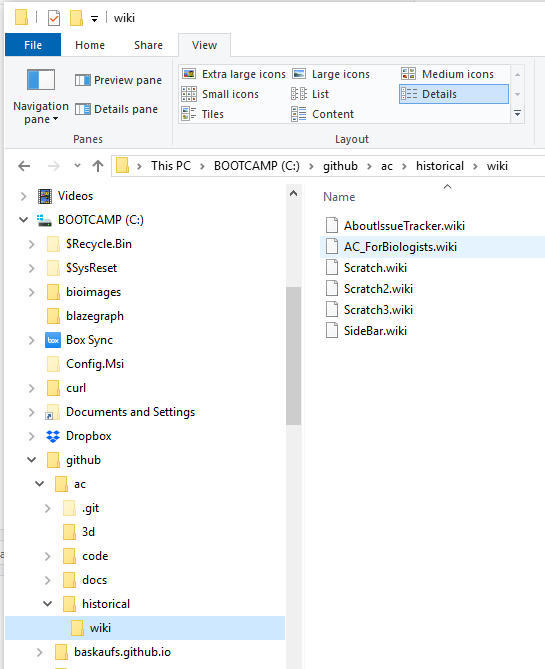
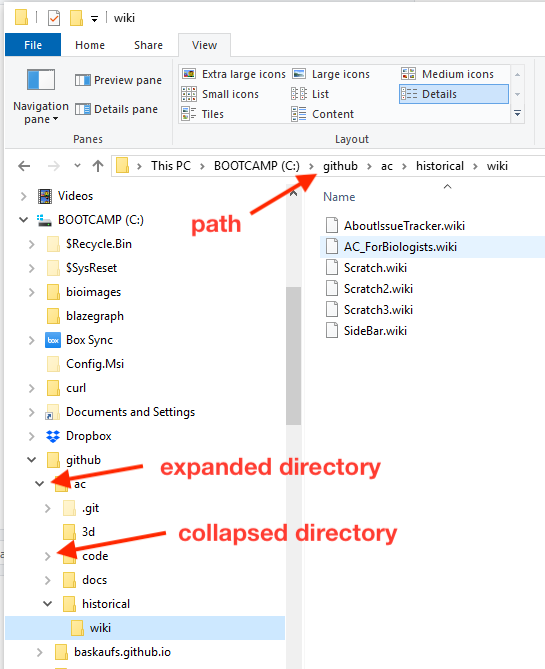
incremental work on Windows directories lesson

diff --git a/computer/directories-windows.md b/computer/directories-windows.md
@@ -77,51 +77,41 @@ c:\users\user1\file6
 
 When you open a File Explorer window, its exact appearance is going to depend on how you've used it in the past, since it usually remembers how you had it set up the last time you used it to look at a particular directory.  There are certain modifications that you can do to make File Explorer easier to use based on how you like to organize things.  
 
-![explorer with navigation and ribbon](../images-2-pc/windows-explorer.jpg)
+<img src="../images-2-pc/file-explorer.jpg" style="border:1px solid black">
 
 ## Navigation pane
 
 There are two parts of the File Explorer window that you can choose to display or not.  The *ribbon* is at the top of the window.  The Home and View tabs are the most useful ones.  The Home tab allows you to perform tasks such as creating new folders and deleting files.  The View tab has many useful features and we will focus on it.
 
-The first item in the View tab is a dropdown that controls whether 
+<img src="../images-2-pc/nav-pane-options.jpg" style="border:1px solid black">
 
-Its most useful features are the back button, which allows you to go back to previous directory that you viewed, and the set of four buttons that contol how the files are displayed (as icons, list, columns, or gallery).  The *sidebar* allows you to quickly jump to folders that you frequently use.  
+The first item in the View tab is a dropdown that controls whether the second part (the *navigation pane*) is visible or not, and how it works.  You should check the `Navigation pane` checkbox if it isn't already checked.  Also check the `Expand to open folder` checkbox.  
 
-You can control whether the toolbar and sidebar are visible or not by going to the Finder View menu and toggling `show toolbar`/`hide toolbar` option.  Unless you are really hard up for screen space, I recommend leaving them visible.  (You can also show or hide just the sidebar, but toggling the toolbar shows or hides both).  
+The second set of items (`Preview pane` and `Details pane`) open and close panes at the right of the window that provides a preview of the contents or gives details of the selected file, respectively.  
 
-Once the sidebar is visible, there are two ways you can control what "favorite" folders are visible.  To control which of the "special" folders are visible, click on a Finder window (or the Finder icon in the dock), then from the Finder menu, select `Preferences".  Click on the Sidebar tab.
+The third set of items allows you to select how you want to view the files.  The two most useful view styles are `Details` and the various sizes of icons.  
 
-<img src="../images-2-mac/sidebar-preferences.png" style="border:1px solid black">
+<img src="../images-2-pc/large-icons.jpg" style="border:1px solid black">
 
-Uncheck the boxes of any items you don't want to see, and check any that you think you might use frequently.  For these exercises, make sure that your home folder is checked (the icon that looks like a little house) as well as the Location that has your computer name (in this case, `erebus's MacBook Pro`).  When you are done, close the window by clicking on the red dot.  **Note: you can always go to any of the special folders by dropping down the Finder `Go` menu, then selecting the folder you want.**
+The *Large icons* option is mostly useful for directories that contain images, since it presents reasonably sized thumbnails of images in the folder.  It's probably the easiest way to find a particular image from a large collection.  
 
-<img src="../images-2-mac/add-favorite.png" style="border:1px solid black">
+<img src="../images-2-pc/details.jpg" style="border:1px solid black">
 
-You can also add favorite "regular" folders to the sidebar.  Click and drag the folder over to the sidebar until a line shows up in the position where you want the folder to be, then drop it.  **Note: be careful that you see the line indicating where the folder will be inserted between other folders on the list.  If you hold the folder *over* a folder in the list, you'll actually move the folder you were dragging *into* the folder on the list.**  If you add a folder to the favorites list, it is also still in its original location in the directory tree.
+The *Details* option is probably the most useful of the remaining views. This view displays columns of metadata about the files, including the time when it was last modified and the file size.  You can sort by any of the columns, which is particularly useful for finding the most recently modified, or the oldest files.  
 
-To remove a "regular" folder from the sidebar, just click and drag it somewhere out of the sidebar so that an X shows up next to its icon.  Drop it and it will be removed.  (If you drop it from the sidebar into a directory that is being displayed, it won't be moved there.) 
+There is also a set of buttons in the lower right of the window that allows you to switch between displying item info and just displaying the icons.  It's best to just leave it selected to display item info and control the view style using the view ribbon options.
 
-## Finder display modes
+<img src="../images-2-pc/nav-pane.jpg" style="border:1px solid black">
 
-If you don't have very many files on your computer, it doesn't matter much what display mode you chose to use.  
+The navigation pane is extremely useful for navigating around in the directory tree.  Near the top of the navigation pane is `This PC`, which is sort of the imaginary root of every file storage thing in the directory tree.  Located under it hierarchically are the "imaginary" places: Desktop, Documents, Downloads, Pictures, etc. that actually are located within the user's home directory.  Below them is the actual hard drive of the computer.  It might have various names, but can be recognized by its labeling as `(C:)`.  
 
-The classic Mac viewing system is *icon view*.  The icon view is most useful when looking for images because you can see tiny thumbnails.  I find icon view the most annoying because it takes so many clicks to navigate.  When you double-click on a folder, you enter that nested folder.  To back out of that deeper level, you have to use the back button.  It is very easy to get lost if you are deep into the directory tree, but there is a feature that can help you.  
+<img src="../images-2-pc/nav-pane.jpg" style="border:1px solid black">
 
-<img src="../images-2-mac/icon-view-and-path-bar.png" style="border:1px solid black">
+Any of these items can be expanded or collapsed by clicking on the arrow to the left of the folder icon.  The arrow points to the right for collapsed directories and points down for expanded directories.  At any point in the process of expanding the dirctory tree, you can click on a folder and its contents will be displayed on the pane to the right and the hierarchy will be displayed in the path bar below the ribbon.  If you checked the `Expand to open folder` option in the Navigation pane options, then double-clicking on a folder at the right will also automatically expand it in the navigation pane on the left.  
 
-In the Finder View menu, there is an option for `Show Path Bar`.  When you enable the path bar, you will see a little list of your path, from the highest level to the folder you are in.  This option is available in any display mode.
+After you have gone down into deeper subdirectories of the directory tree, you can go back up the tree in two ways.  You can click the back button at the upper left and it will return you to previous directories you have viewed.  You can also jump to any higher level in the path by single-clicking on a folder in the path bar.
 
-The *gallery view* is mostly useful if you need to sort through images.
-
-If you have a lot of files and many nested levels of directories, then you probably will either want to use the *column* or *list* view.  
-
-<img src="../images-2-mac/column-view.png" style="border:1px solid black">
-
-The *column view* is nice because it makes it easy to tell your level in the file hierarchy. Because each level is shown in a different column, it is easy to jump up several level in the hierarchy with a single mouse click.  You can also scroll up and down at each level to see what's in the various levels without changing what's selected. The column view also has a nice preview feature that for certain file types can show you what's in the file without you having to open it.  The most annoying feature of the column view is that it shortens long file names and there is no way to adjust the column width to make the full names show up.  This can be a problem if you have a lot of files with long names that are similar.
-
-<img src="../images-2-mac/list-view.png" style="border:1px solid black">
-
-You can avoid some of these problems with the *list view*. In the list view, you can always see the full file name -- if necessary, you can click and drag the column divisions at the top of the window to make the column wide enough to see the whole name.  You can navigate to deeper layers in the file hierarchy by clicking on the little triangles at the left of the folder names to expand that folder.  Each level in the hierarchy is indented to the right of the previous level.  An advantage over the column view is that you can see deeper into several folders at once by expanding each of them. The disadvantage of this viewing option is that it requires a lot of vertical space on your computer. If you have a lot of files or folders in a folder, you may not be able to see other parts of the directory tree without doing a lot of scrolling up and down the page, particularly if you have a wide screen that is not very tall.  Another disadvantage of this view is that there is no file preview.  However, the view does show you detailed metadata about the files and folders, such as when they were last modified, and their size.  This is the only view that allows you to see these metadata, and you can quickly sort what's visible on the screen by clicking on the column header for the characteristic that you want to sort by.  For example, you can easily tell which files were most recently modified by clicking on the Date Modified column header.
+***********
 
 ## Exploring the entire directory tree
 
